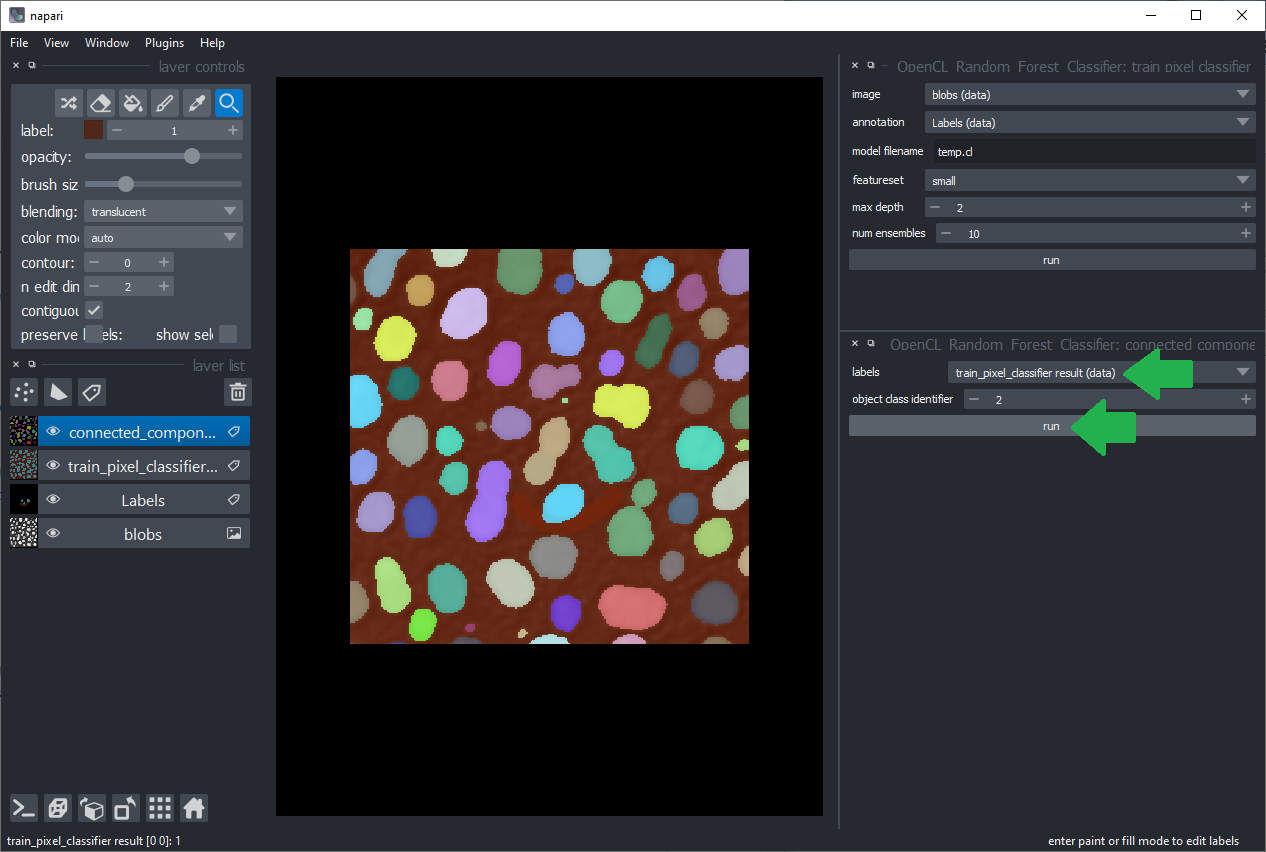
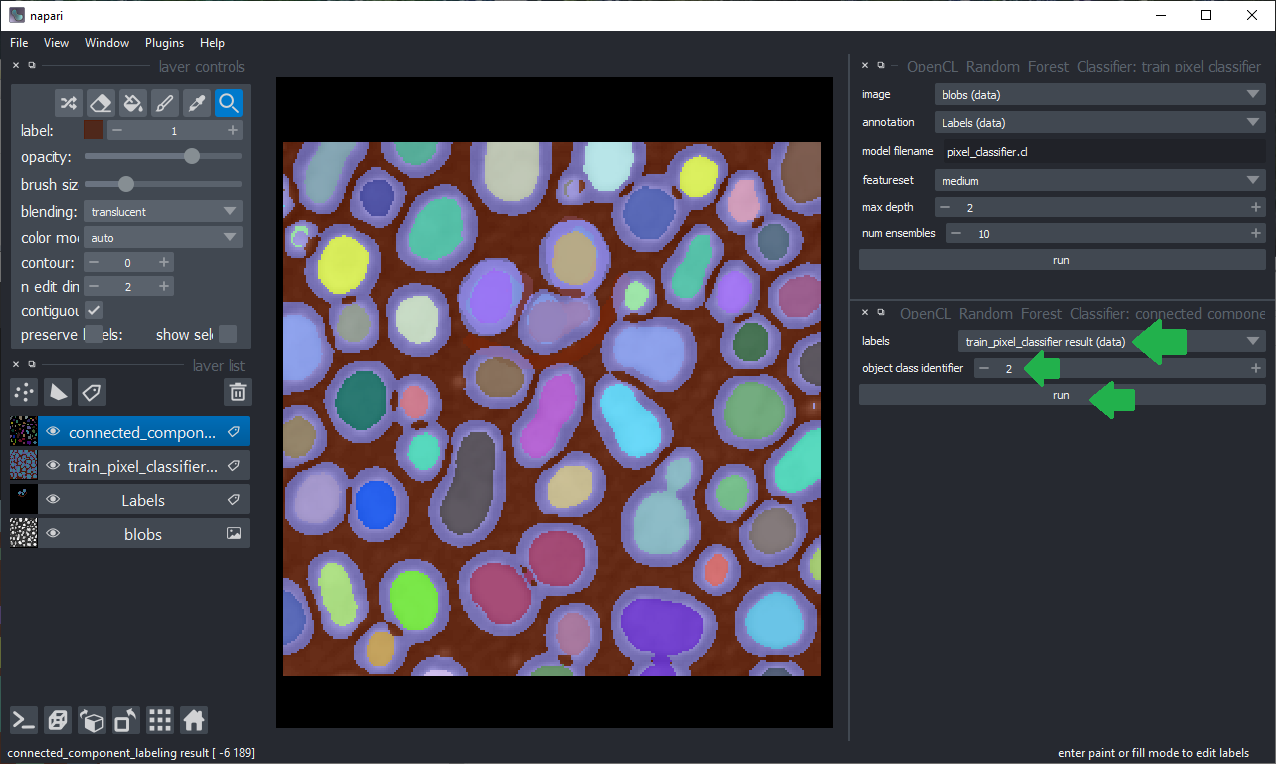
updated readme and screenshots

diff --git a/README.md b/README.md
@@ -37,6 +37,10 @@ Open an image in napari and add a labels layer. Annotate foreground and backgrou
 ![img.png](images/img.png)
 
 Click the menu `Plugins > OpenCL Random Forest Classifiers > Train pixel classifier`. 
+Consider changing the `featureset`. There are three options for selecting 
+small (about 1 pixel sized) objects, 
+medium (about 5 pixel sized) object and 
+large (about 25 pixel sized) objects.
 Make sure the right image and annotation layers are selected and click on `Run`.
 
 ![img_1.png](https://github.com/haesleinhuepf/napari-oclrfc/raw/master/images/img_1.png)
